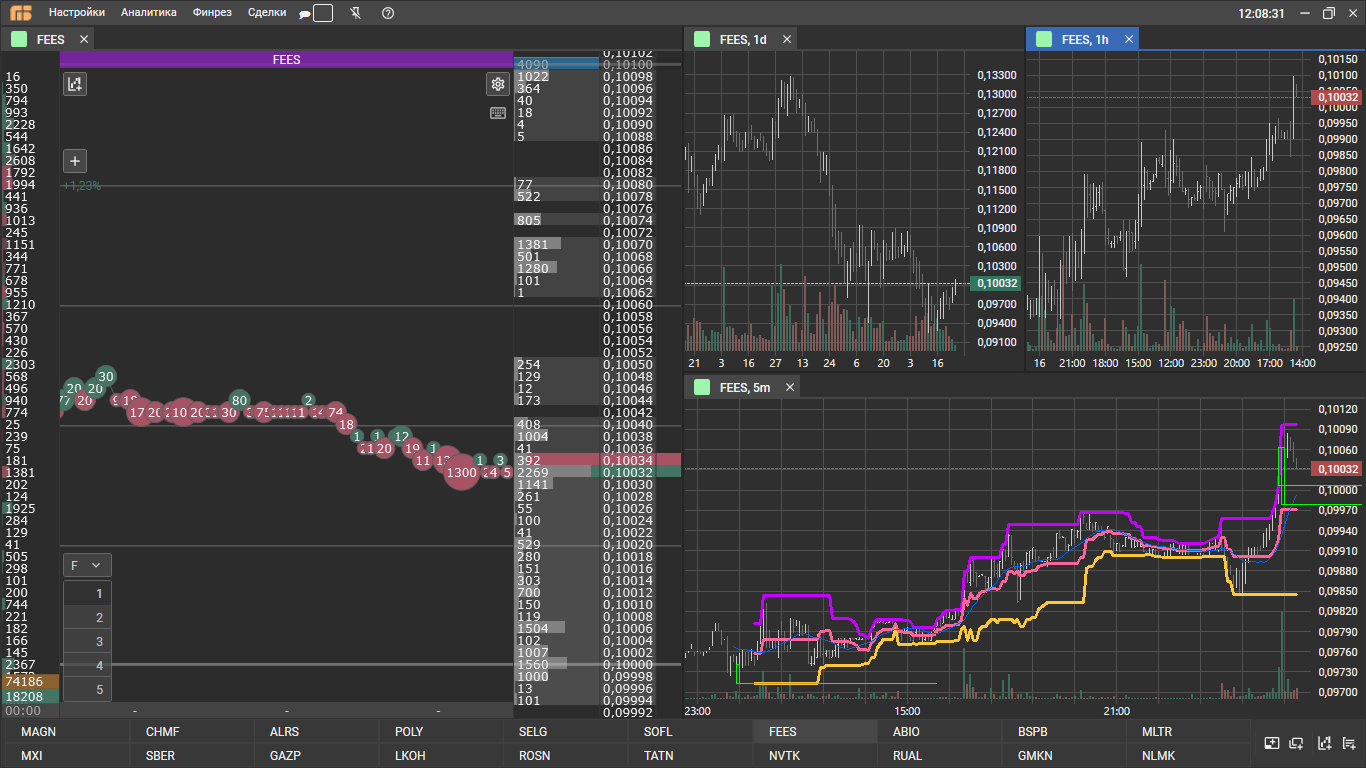
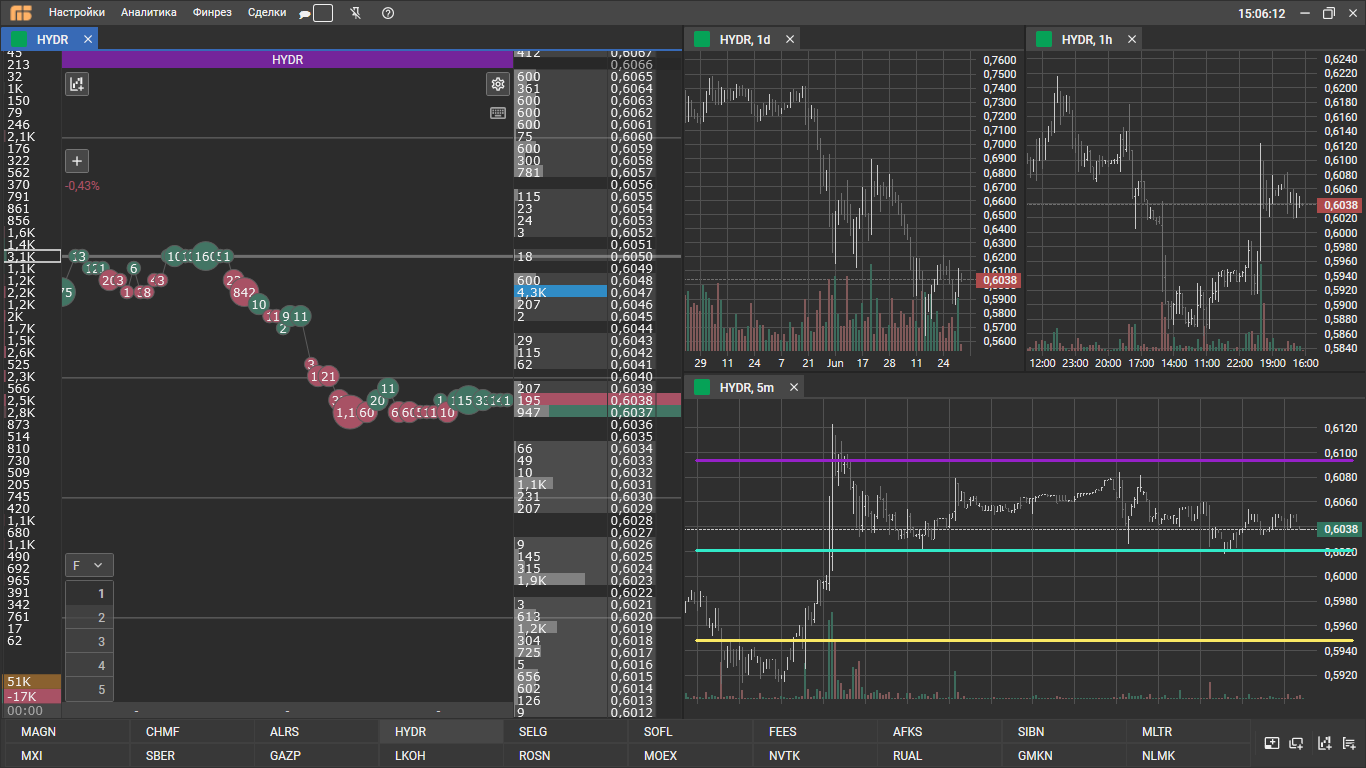
LTA1_C

diff --git a/visual_traider_v1/tas/WorkTA.py b/visual_traider_v1/tas/WorkTA.py
@@ -4,7 +4,7 @@ workBot
 import numpy as np
 import cv2
 from tas.BaseTA import BaseTA,Keys
-from utils.chart_utils.indicators import get_donchan_channel,get_SMA,get_FVG,get_adaptive_DC
+from utils.chart_utils.indicators import get_donchan_channel,get_SMA,get_FVG,get_adaptive_DC,get_borders
 from dataclasses import dataclass
 
 @dataclass
@@ -29,23 +29,29 @@ class WorkTA(BaseTA):
         volume_cords = self.trader._get_cords_on_mask(volume_mask)
         half_bars = self.trader._get_half_bars(candle_mask,candle_cords,volume_cords)
         cur_price = self.trader._get_current_price(chart)
-        volatility = np.array(list(map(lambda x: x.spred,half_bars)))
-        volatility = np.mean(volatility)
-        bullish_FGV,bearish_FGV = get_FVG(half_bars,volatility,2)
+        # volatility = np.array(list(map(lambda x: x.spred,half_bars)))
+        # volatility = np.mean(volatility)
+        # bullish_FGV,bearish_FGV = get_FVG(half_bars,volatility,2)
         ups,downs,middle = get_adaptive_DC(half_bars,self.period,multer=1.5)
-        sma = get_SMA(np.array(list(map(lambda x: x.mpt,half_bars))))
+        # sma = get_SMA(np.array(list(map(lambda x: x.mpt,half_bars))))
+        top_line,bottom_line = get_borders(self.trader.chart_region,5)
+        top_line2,bottom_line2 = get_borders(self.trader.chart_region,2)
         last_hb = half_bars[-1]
         if self.trader.mode != 1:
-            cv2.polylines(chart,[ups],False,(255,0,200),2)
-            cv2.polylines(chart,[downs],False,(55,200,250),2)
-            cv2.polylines(chart,[middle],False,(155,100,250),2)
-            cv2.polylines(chart,[sma],False,(255,100,0),1)
-            for zone in bullish_FGV:
-                cv2.rectangle(chart,zone[0],zone[1],(0,255,0),1)
-                cv2.line(chart,zone[0],(zone[0][0]+200,zone[0][1]),(0,255,0))
-            for zone in bearish_FGV:
-                cv2.rectangle(chart,zone[0],zone[1],(0,100,255),1)
-                cv2.line(chart,zone[0],(zone[0][0]+200,zone[0][1]),(0,100,255))
+            cv2.line(chart,top_line[0],top_line[1],(200,33,150),2)
+            cv2.line(chart,bottom_line[0],bottom_line[1],(100,233,250),2)
+            cv2.line(chart,top_line2[0],top_line2[1],(200,233,50),2)
+            # cv2.line(chart,bottom_line2[0],bottom_line2[1],(200,33,150),2)
+            # cv2.polylines(chart,[ups],False,(255,0,200),2)
+            # cv2.polylines(chart,[downs],False,(55,200,250),2)
+            # cv2.polylines(chart,[middle],False,(155,100,250),2)
+            # cv2.polylines(chart,[sma],False,(255,100,0),1)
+            # for zone in bullish_FGV:
+            #     cv2.rectangle(chart,zone[0],zone[1],(0,255,0),1)
+            #     cv2.line(chart,zone[0],(zone[0][0]+200,zone[0][1]),(0,255,0))
+            # for zone in bearish_FGV:
+            #     cv2.rectangle(chart,zone[0],zone[1],(0,100,255),1)
+            #     cv2.line(chart,zone[0],(zone[0][0]+200,zone[0][1]),(0,100,255))
 
         return KeysW(
             cur_price=cur_price[1],

diff --git a/visual_traider_v1/tas/LTA1_C.py b/visual_traider_v1/tas/LTA1_C.py
@@ -1,0 +1,51 @@
+'''
+Трейдер на основе отбоя адптивного канала Дончана с закрытие при выходе за среднюю линию
+'''
+
+import cv2
+from tas.BaseTA import BaseTA,Keys
+from utils.chart_utils.indicators import get_borders
+from dataclasses import dataclass
+
+@dataclass
+class KeysW(Keys):
+    top:int
+    bottom:int
+    center:int
+
+
+
+class LTA1_C(BaseTA):
+    def __init__(self, trader,divider=4,*args):
+        super().__init__(trader,*args)
+        self.divider = divider
+    def get_keys(self, img)-> KeysW:
+        region = self.trader.chart_region
+        chart = self.trader._get_chart(img,region)
+        top_line,bottom_line = get_borders(self.trader.chart_region,divider=self.divider)
+        center_line,_ = get_borders(self.trader.chart_region,2)
+        cur_price = self.trader._get_current_price(chart)
+
+        if self.trader.mode != 1:
+            cv2.line(chart,top_line[0],top_line[1],(200,33,150),2)
+            cv2.line(chart,bottom_line[0],bottom_line[1],(100,233,250),2)
+            cv2.line(chart,center_line[0],center_line[1],(200,233,50),2)
+
+        return KeysW(
+            cur_price=cur_price[1],
+            top=top_line[0][1],
+            bottom=bottom_line[0][1],
+            center=center_line[0][1]
+        )
+
+    def get_action(self, keys:KeysW):
+        if keys.cur_price < keys.top:
+            return 'short'
+        if keys.cur_price > keys.bottom:
+            return 'long'
+        if keys.cur_price < keys.center:
+            return 'close_long'
+        if keys.cur_price > keys.center:
+            return 'close_short'
+
+

diff --git a/visual_traider_v1/sgs/sg_on_bot.py b/visual_traider_v1/sgs/sg_on_bot.py
@@ -1,15 +1,17 @@
 
-sleep_group = ['LKOH','MAGN','NLMK','PIKK','RUAL','SIBN','SOFL','VTBR','BSPB']
+sleep_group = ['LKOH','MAGN','PIKK','RUAL','SOFL','BSPB']
 
 
 bot_on_ticker = {
-    'ST1a' : ['ALRS','CHMF','SBER'],
+    'ST1a' : ['ALRS','CHMF'],
     'ST1' : ['GMKN','SELG','ROSN'],
     'ST4' : ['SBERP','MOEX'],
     'ST6' : ['MTLR'],
     'PTA2_DDC_15' : ['ABIO'],
-    'PTA2_DDC_30' : ['AFKS','APTK','CNY','FEES'],
-    'PTA2_DDC_40' : ['TATN','NVTK'],
-    'PTA2_DDC_60' : ['GAZP','MRKP','HYDR'],
-    'PTA2a_DDC_15' : ['MXI']
+    'PTA2_DDC_30' : ['APTK','CNY','FEES'],
+    'PTA2_DDC_40' : ['TATN','GAZP'],
+    'PTA2_DDC_60' : ['MRKP','HYDR'],
+    'PTA2a_DDC_15' : ['MXI'],
+    'PTA2_DDC_80': ['AFKS','VTBR','NVTK'],
+    'PTA2_DDC_100':['NLMK','SBER','SIBN']
 }

diff --git a/visual_traider_v1/traider_bots/AllBots.py b/visual_traider_v1/traider_bots/AllBots.py
@@ -27,6 +27,7 @@ from tas.CloserTA import CloserTA
 from tas.PTA2_DDC import PTA2_DDC,PTA2a_DDC
 from tas.PTA3_ADDC import PTA3_ADDC,PTA3a_ADDC
 from tas.SleepTA import SleepTA
+from tas.LTA1_C import LTA1_C
 
 VT2_bots = {
     'OGT1':OGT1,
@@ -62,11 +63,14 @@ VT3_bots = {
     'BaseTA':(BaseTA,()),
     'SleepTA':(SleepTA,()),
     'CloserTA':(CloserTA,()),
+    'LTA1_C':(LTA1_C,(4,)),
     'PTA2_DDC_15':(PTA2_DDC,(15,)),
     'PTA2_DDC_20':(PTA2_DDC,(20,)),
     'PTA2_DDC_30':(PTA2_DDC,(30,)),
     'PTA2_DDC_40':(PTA2_DDC,(40,)),
     'PTA2_DDC_60':(PTA2_DDC,(60,)),
+    'PTA2_DDC_80':(PTA2_DDC,(80,)),
+    'PTA2_DDC_100':(PTA2_DDC,(100,)),
     'PTA2a_DDC_15':(PTA2a_DDC,(15,)),
     'PTA2a_DDC_30':(PTA2a_DDC,(30,)),
     'PTA2a_DDC_60':(PTA2a_DDC,(60,)),

diff --git a/visual_traider_v1/test.py b/visual_traider_v1/test.py
@@ -10,11 +10,12 @@ import sys
 import keyboard
 from wrappers.GroupBotWrapper import GroupBotWrapper
 from traider_bots.VisualTraider_v2 import VisualTraider_v2
-now = datetime.now()
-hour = now.hour
-minute = now.minute
-print(hour)
-print(minute)
+# now = datetime.now()
+# hour = now.hour
+# minute = now.minute
+# print(hour)
+# print(minute)
+print('_'.split('_'))
 # sleep(5)
 # print(sys.argv)
 # pag.screenshot('screens\Screen.png')

diff --git a/visual_traider_v1/total_test_and_analiz.py b/visual_traider_v1/total_test_and_analiz.py
@@ -1,10 +1,10 @@
 import os
 test_data = 'test_data'
 result_dir = 'test_results'
-bot_name = 'PTA2_DDC_5'
+bot_name = 'LTA1_C'
 variants = os.listdir(test_data)
-# stock_group = '_'
-stock_group = 'MXI'
+stock_group = '_'
+# stock_group = 'MXI'
 for variant in variants:
     print(variant)
     folders = os.listdir(test_data+'/'+variant)

diff --git a/visual_traider_v1/test_env.py b/visual_traider_v1/test_env.py
@@ -24,7 +24,7 @@ else:
     bot_name = sys.argv[3]
 if len(sys.argv) > 4:
     temp = sys.argv[4].split('_')
-    if len(temp) > 0:
+    if all(temp):
         stock_groups = temp
 
 
